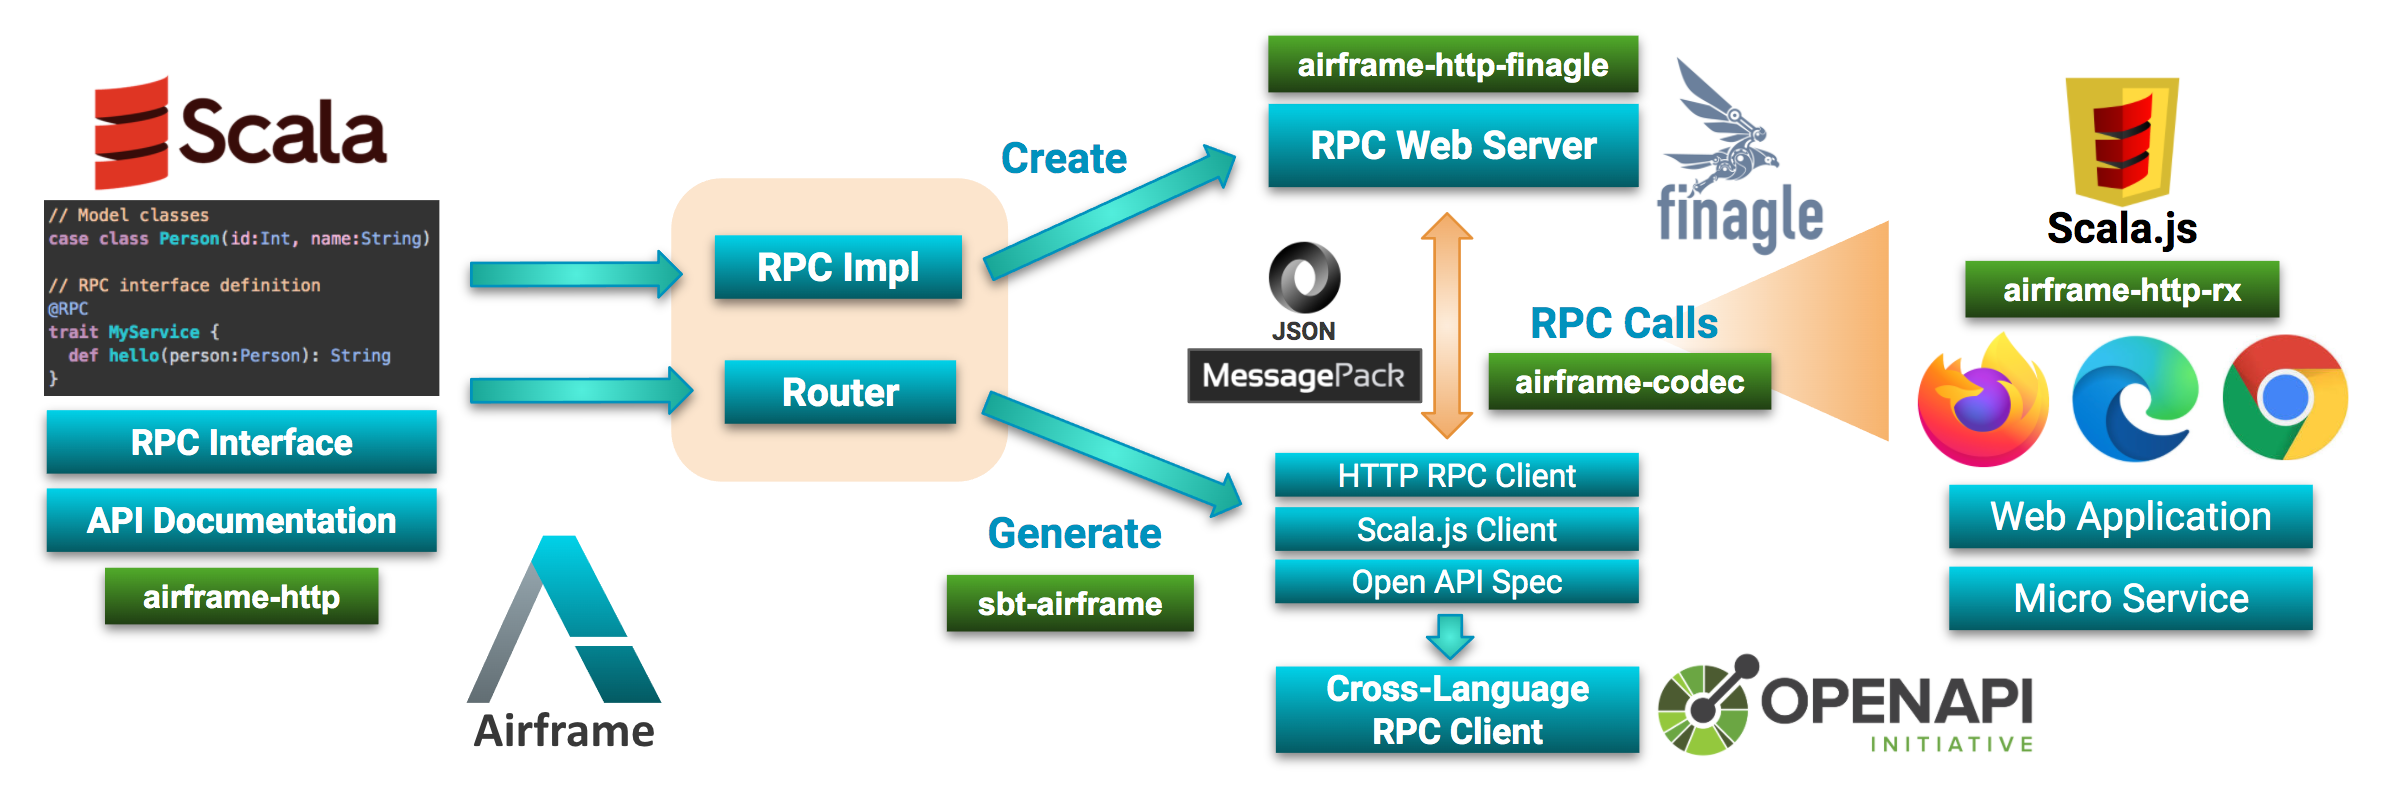
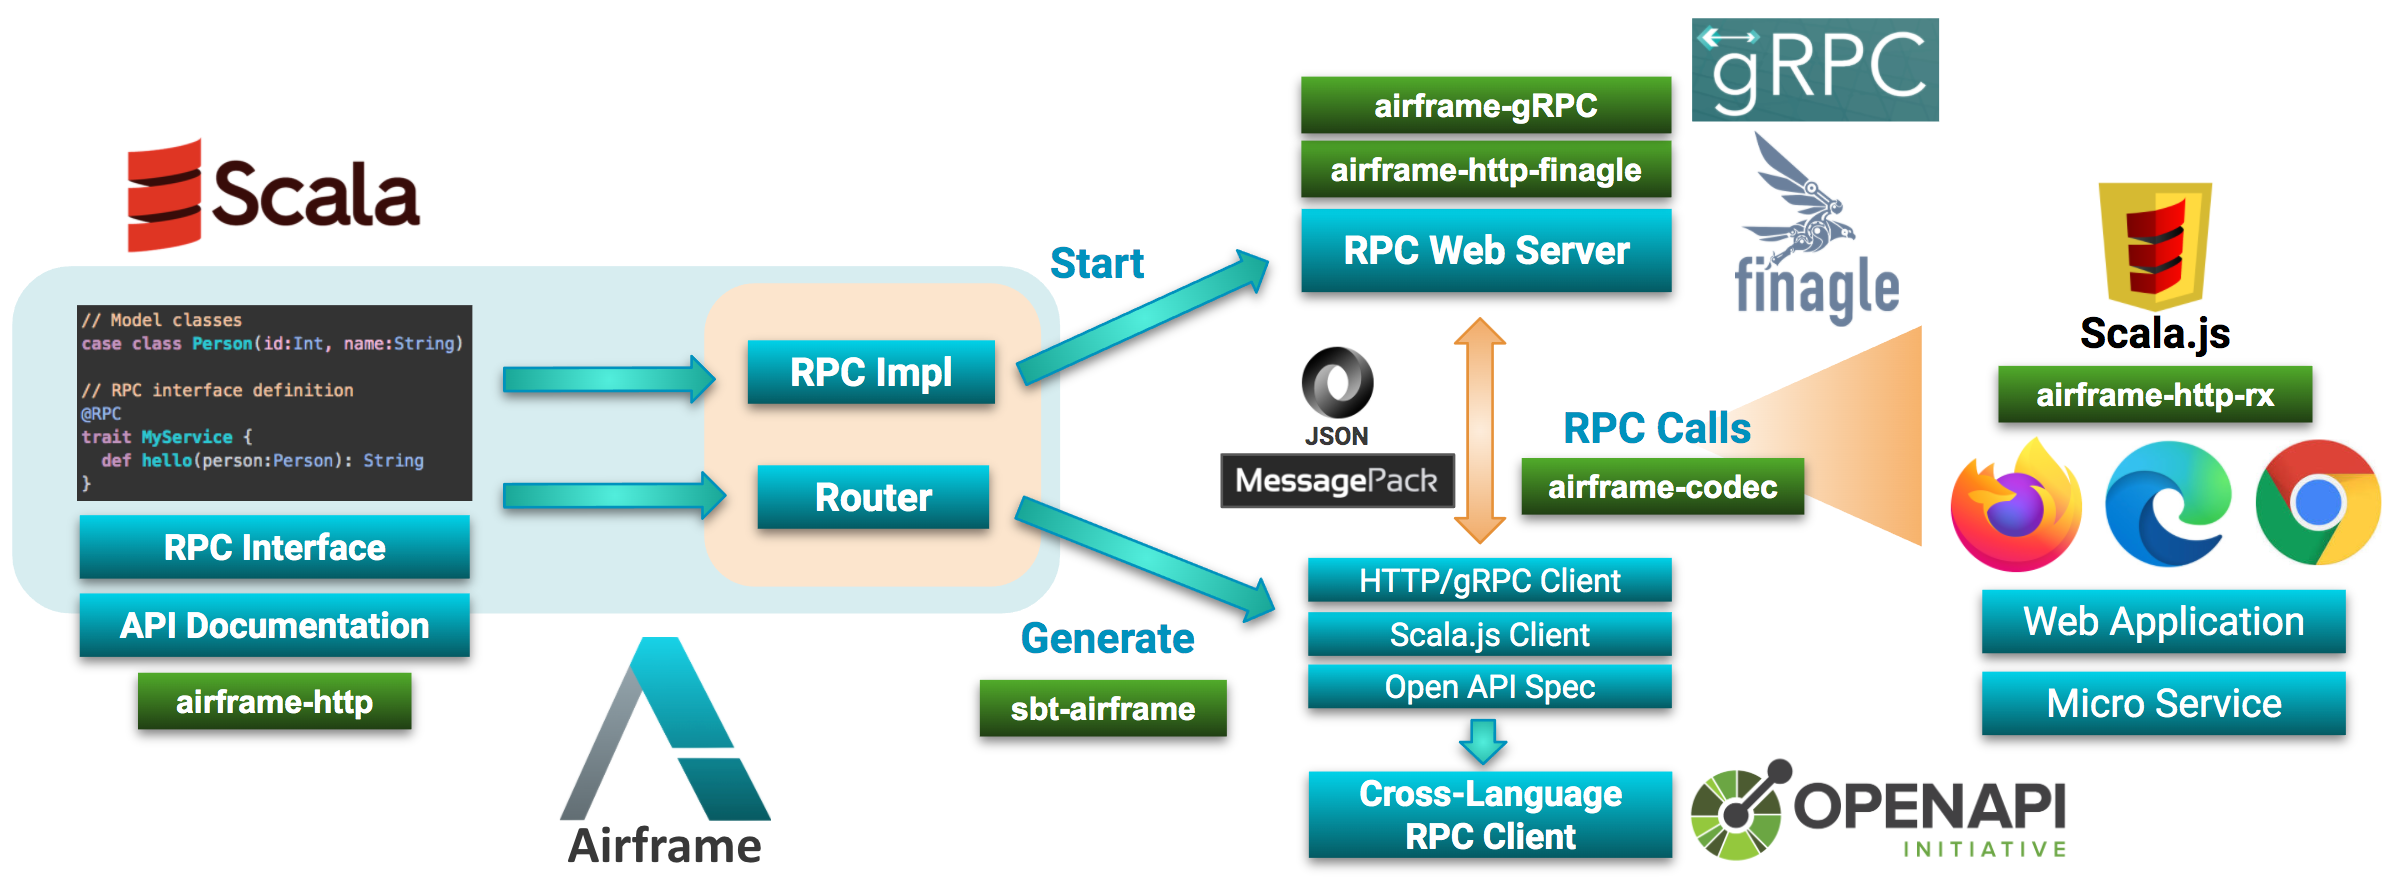
Update doc

diff --git a/docs/airframe-rpc.md b/docs/airframe-rpc.md
@@ -7,13 +7,38 @@ Airframe RPC is a framework for building RPC services by using Scala as a unifie
 
 ![overview](../img/airframe-rpc/rpc-overview.png)
 
+With Airframe RPC, you can:
+- Build full-fledged RPC services with Scala:
+  - [Finagle](https://twitter.github.io/finagle/) (HTTP/1) backend or [gRPC](https://grpc.io/) (HTTP/2) are supported.
+  - RPC clients can be generated from Scala interfaces, so no need to make HTTP requests by yourself.
+- Add RPC support to [Scala.js](https://www.scala-js.org/) for building interactive web applications.
+- Generate [Open API](https://www.openapis.org/) schema from RPC definitions written in Scala
+
 ## Why Airframe RPC?
 
-Airframe RPC enables calling Scala methods at remote servers. You don’t need to worry about how to encode your data into JSON, nor how to define HTTP REST endpoints. Airframe RPC abstracts away these details; the framework generates code for serializing your data objects into JSON or MessagePack and calls appropriate HTTP endpoints on your behalf.
+Airframe RPC enables calling Scala methods at remote servers. You don’t need to worry about how to encode your data into JSON, nor how to define HTTP REST endpoints. Airframe RPC abstracts away these details; the framework generates the code for serializing your data objects into JSON or [MessagePack](https://msgpack.org/) and calls appropriate HTTP endpoints on your behalf.
 
-While [gRPC](https://grpc.io/) has been a popular approach for building RPC services, it's built around [Protobuf](https://developers.google.com/protocol-buffers/docs/overview) technology for defining data structures and RPC methods. This means, you and your collaborators need to use Protobuf ecosystem almost for everything to enjoy the benefits of gRPC. And also, gRPC heavily uses HTTP/2 features, some of them are not supported in web browsers, so if you need to write web applications using gRPC, an additional proxy like [gRPC-Web](https://grpc.io/docs/languages/web/basics/) is required.
+For defining RPC services, what we need are definitions of functions and data structures of HTTP requests and responses.
+Airframe RPC leverages the nature of Scala as a functional and object-oriented programming language. You can use plain Scala functions as RPC endpoints and [case classes](https://docs.scala-lang.org/tour/case-classes.html) for modeling complex data:
 
-In 2020, [Scala.js, which can compile Scala code into JavaScript, finally became 1.0.0 after 7 years of development](https://www.scala-js.org/news/2020/02/25/announcing-scalajs-1.0.0/). This has paved a way for using Scala both for server (Scala JVM) and client (Scala.js) implementations. We explored an approach for using Scala's functional interfaces as RPC endpoint definitions, and successfully created Airframe RPC on top of [technology stack of 20+ Airframe modules](index.md).
+```scala
+// An example RPC definition using Airframe RPC
+@RPC
+trait Greeter {
+  // RPC endpoint definition
+  def hello(name:String): GreeterResponse = GreeterResponse(s"Hello ${name}!")
+}
+
+// A model class defined with case class.
+// This will be encoded into JSON {"message":"...."} or its MessagePack representation
+case class GreeterResponse(message:String)
+```
+
+While [gRPC](https://grpc.io/) has been a popular approach for building RPC services, its ecosystem often uses [ProtocolBuffers](https://developers.google.com/protocol-buffers/docs/overview) for defining data structures and RPC methods. To start using gRPC in Scala, we need to bridge the gap between ProtocolBuffers and Scala (e.g., [ScalaPB](https://scalapb.github.io/)). gRPC itself, however, is a data-format agnostic framework. So, in order to use Scala naturally for RPC, we extended gRPC to support JSON (plain text) or MessagePack (a compact binary alternative of JSON) so that we can create RPC services without introducing ProtocolBuffers.
+
+Airframe RPC also supports building HTTP/1 services backed by [Finagle](https://twitter.github.io/finagle/) as well as efficient HTTP/2-based streaming services with [gRPC](https://grpc.io/). Supporting both HTTP/1 and HTTP/2 is important because gRPC heavily uses HTTP/2 features, but HTTP/1-based web clients including web browsers still don't fully support HTTP/2.
+
+In 2020, Scala.js, which can compile Scala code into JavaScript, finally [became 1.0.0 after 7 years of development](https://www.scala-js.org/news/2020/02/25/announcing-scalajs-1.0.0/). This also has paved a way for using Scala both for servers (Scala JVM) and clients (Scala.js). We explored the approach for using Scala's functional interfaces as RPC endpoint definitions, and successfully created Airframe RPC, which works both for Scala JVM and Scala.js, on top of [technology stack of 20+ Airframe modules](index.md).
 
 Although Airframe RPC is a relatively new project started at March 2020 inside [Arm Treasure Data](https://www.treasuredata.com/), this project has proved various advantages. For example:
 
@@ -92,7 +117,7 @@ The basic flow of using Airframe RPC is as follows:
 1. Define RPC interfaces with `@RPC` annotation
 1. Implement the RPC interfaces in Scala
 1. Create `wvlet.airframe.http.Router` by adding the RPC interface implementation classes.
-1. Generate RPC client code with sbt-airfrme plugin
+1. Generate RPC client code with sbt-airframe plugin
 
 
 ### Basic Project Structure
@@ -121,8 +146,8 @@ val AIRFRAME_VERSION="(version)"
 // Common build settings
 val buildSettings = Seq( 
   organization := "(your organization)",
-  scalaVersion := "2.12.10",
-  // Add our own settings
+  scalaVersion := "2.12.10"
+  // Add our own settings here
 )
 
 // RPC API definition. This project should contain only RPC interfaces
@@ -146,6 +171,8 @@ lazy val server =
       buildSettings, 
       libraryDependencies ++= Seq(
         "org.wvlet.airframe" %% "airframe-http-finagle" % AIRFRAME_VERSION
+        // Add this for using gRPC
+        "org.wvlet.airframe" %% "airframe-http-grpc" % AIRFRAME_VERSION
       )
     )
     .dependsOn(apiJVM)
@@ -163,6 +190,8 @@ lazy val client =
       airframeHttpGeneratorOption := "-l debug",
       libraryDependencies ++= Seq(
         "org.wvlet.airframe" %% "airframe-http-finagle" % AIRFRAME_VERSION
+        // Add this for using gRPC
+        "org.wvlet.airframe" %% "airframe-http-grpc" % AIRFRAME_VERSION
       )
     )
     .dependsOn(apiJVM)
@@ -210,7 +239,7 @@ Supported client types are:
 - __sync__: Create a sync HTTP client (ServiceSyncClient) for Scala (JVM)
 - __async__: Create an async HTTP client (ServiceClient) for Scala (JVM) using Future abstraction (`F`). The `F` can be `scala.concurrent.Future` or twitter-util's Future. 
 - __scalajs__:  Create an RPC client (ServiceClientJS)
-- __grpc__: Create a gRPC client (ServiceGrpcClient)
+- __grpc__: Create a gRPC client (ServiceGrpc)
 
 To support other types of clients, see the examples of [HTTP code generators](https://github.com/wvlet/airframe/blob/master/airframe-http/.jvm/src/main/scala/wvlet/airframe/http/codegen/client/ScalaHttpClient.scala). This code reads a Router definition of RPC interfaces, and generate client code for calling RPC endpoints. Currently, we only supports generating HTTP clients for Scala. In near future, we would like to add Open API spec generator so that many programming languages can be used with Airframe RPC.
 
@@ -380,7 +409,7 @@ Airframe RPC is built on top of Airframe HTTP framework. See [Airframe HTTP docu
 
 _(This is an experimental feature available since Airframe 20.8.0)_
 
-Airframe gRPC is a gRPC and HTTP2-based implementation of Airframe RPC, which can make thousands of RPC calls per second. With Airframe gRPC:   
+Airframe gRPC is a gRPC and HTTP2-based implementation of Airframe RPC, which can make thousands of RPC calls per second. With Airframe gRPC:
 
 - No Protobuf definition is required. You can use plain Scala and case classes to define gRPC service.
 - Roadmap
@@ -417,7 +446,7 @@ Add a following build setting to genreate a gRPC client by using sbt-airframe pl
 airframeHttpClients := Seq("example.api:grpc-sync")
 ```
 
-With this setting, a gRPC blocking client (ServiceGrpcSyncClient.scala) will be genreated.
+With this setting, gRPC client stubs example.api.ServiceGrpc.SyncClient or example.api.ServiceGrpc.AsyncClient will be generated.
 
 ### Starting Airframe gRPC Server
 
@@ -445,18 +474,18 @@ gRPC.server
 
 ### gRPC Client
 
-sbt-airframe generates ServiceGrpcClient class to the target API package. You can create sync (blocking) or async (non-blocking) gRPC clients using this class. 
+sbt-airframe generates ServiceGrpc.scala file to the target API package. You can create sync (blocking) or async (non-blocking) gRPC clients using this class.
 
 
 #### gRPC Sync Client
 ```scala
-import example.api.ServiceClient
+import example.api.ServiceGrpc
 
 // Create a client channel
 val channel = ManagedChannel.forTaget("localhost:8080").usePlaintext().build()
 
 // Create a gRPC blocking client (SyncClient)
-val client = ServiceGrpcClient.newSyncClient(channel)
+val client = ServiceGrpc.newSyncClient(channel)
 try {
   // Call gRPC server
   val ret = client.GreeterApi.sayHello("Airframe gRPC") // Hello Airframe gRPC!     
